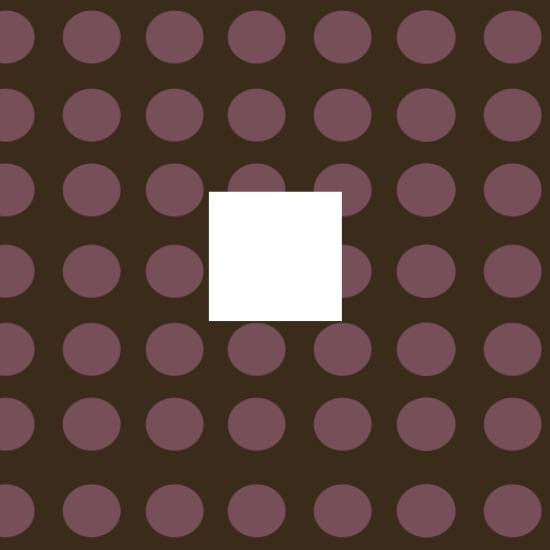
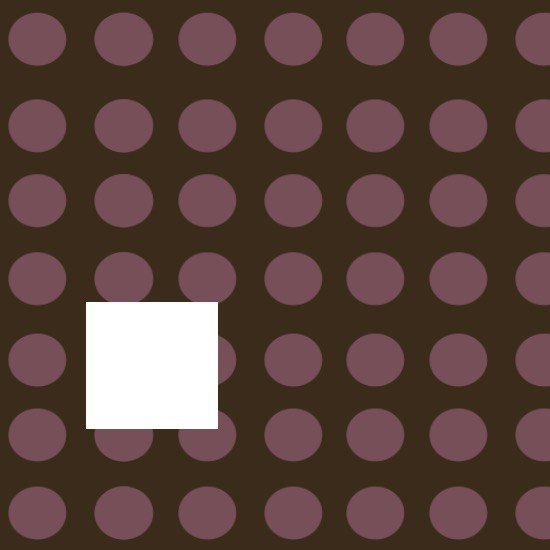
initial generation implementation

diff --git a/ImageHandler.cpp b/ImageHandler.cpp
@@ -48,8 +48,8 @@ ImageHandler::ImageHandler(String imageName) {
 
             ogImage.push_back(currentColorInt);
 
-            if (colorAtImagePositionInfo.getRed() == 255 && colorAtImagePositionInfo.getGreen() == 255 &&
-                colorAtImagePositionInfo.getBlue() == 255) {
+            if (colorAtImagePositionInfo.getRed() >= WHITE_MINIMUM && colorAtImagePositionInfo.getGreen() >= WHITE_MINIMUM &&
+                colorAtImagePositionInfo.getBlue() >= WHITE_MINIMUM ) {
                 if (whiteRectangleCoordinates[0] == 0 && whiteRectangleCoordinates[1] == 0) {
                     whiteRectangleCoordinates[0] = x;
                     whiteRectangleCoordinates[1] = y;
@@ -94,7 +94,8 @@ void ImageHandler::recolorWhiteRectangle() {
 
     for (int x = whiteRectangleCoordinates[0]; x <= whiteRectangleCoordinates[2]; x++) {
         for (int y = whiteRectangleCoordinates[1]; y <= whiteRectangleCoordinates[3]; y++) {
-            Color newColor = colorList[0].getColor();
+            int index = rand() % colorList.size() ;
+            Color newColor = colorList[index].getColor();
             image.setPixel(x, y, newColor);
         }
     }

diff --git a/ColorInfo.h b/ColorInfo.h
@@ -13,7 +13,7 @@ using namespace sf;
 class ColorInfo {
 private:
 
-    const int NORMALIZED_RANGE = 3;
+
     const int GRAY_DELTA = 10;
     const int MIN_GRAY_LEVEL = 100;
     int red = 0;
@@ -27,6 +27,7 @@ private:
     int normalize(int color);
 
 public:
+    const int NORMALIZED_RANGE = 3;
 
     ColorInfo(Color color);
 

diff --git a/ImageHandler.h b/ImageHandler.h
@@ -23,6 +23,7 @@ private:
     vector<ColorInfo> whiteRectangle;
     vector<ColorInfo> colorList;
     int whiteRectangleCoordinates [4] = {0, 0, 0, 0}; //x1 y1 x2 y2
+    const int WHITE_MINIMUM = 235;
 
 public:
     explicit ImageHandler(String imageName);

diff --git a/main.cpp b/main.cpp
@@ -6,7 +6,7 @@ using namespace sf;
 
 int main() {
 
-    ImageHandler imageHandler("basicRedPattern.png");
+    ImageHandler imageHandler("brownPattern.png");
 
 
     //sfml window
